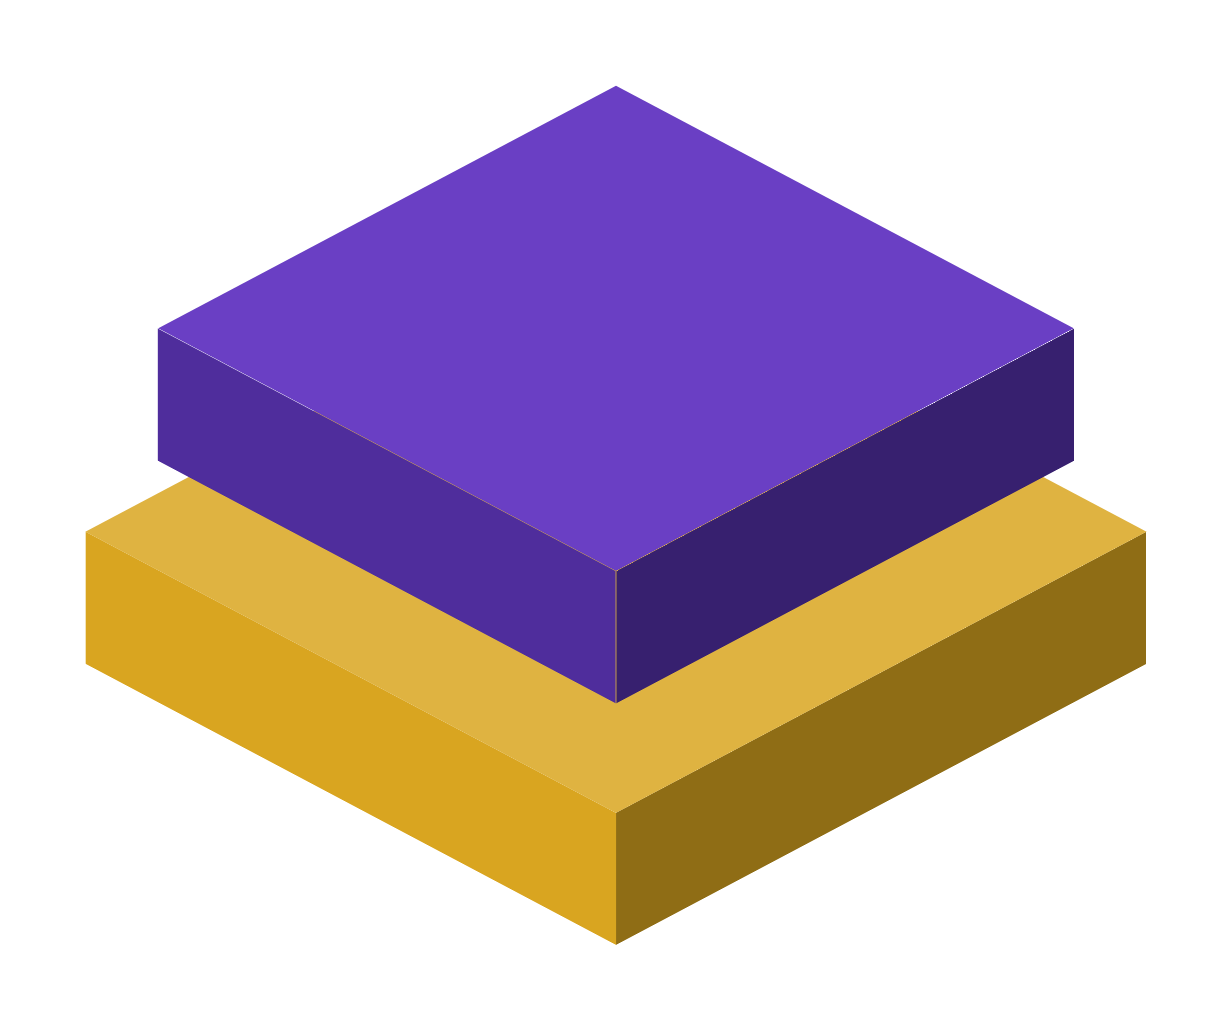
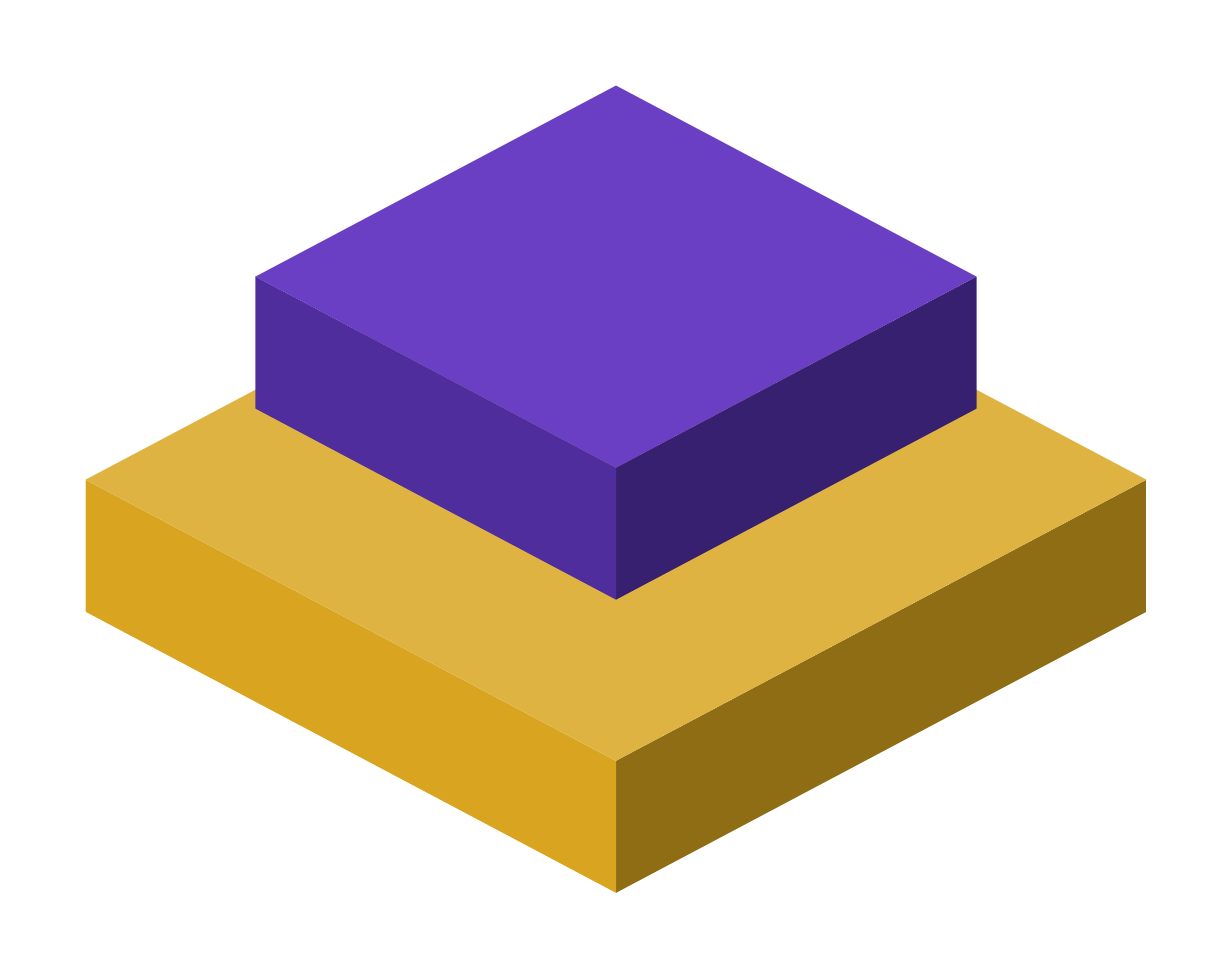
Models: Base-Superstructure's stack more pyramid-shaped (the superstructure narrower on its base); card and download updated
Claude-Session: https://claude.ai/code/session_01LgHoU9QwZ5ZurXZhgzwbWe

diff --git a/diagram/index.html b/diagram/index.html
@@ -3742,7 +3742,7 @@
     </section>
 
     <section class="structures-view" aria-label="Cultural Materialism: Three Structures">
-    <div class="model-save-row"><a class="model-save" href="../assets/downloads/cultural-materialism.png?v=3ae7eac5" download="Cultural Materialism - Three Structures.png"><svg viewBox="0 0 24 24" fill="none" stroke="currentColor" stroke-width="1.6" stroke-linecap="round" stroke-linejoin="round" aria-hidden="true"><path d="M4 15v3.5A1.5 1.5 0 0 0 5.5 20h13a1.5 1.5 0 0 0 1.5-1.5V15"/><g class="arrow"><path d="M12 4v11"/><path d="M8 11l4 4 4-4"/></g></svg><span>Download diagram</span></a></div>
+    <div class="model-save-row"><a class="model-save" href="../assets/downloads/cultural-materialism.png?v=c9e90f98" download="Cultural Materialism - Three Structures.png"><svg viewBox="0 0 24 24" fill="none" stroke="currentColor" stroke-width="1.6" stroke-linecap="round" stroke-linejoin="round" aria-hidden="true"><path d="M4 15v3.5A1.5 1.5 0 0 0 5.5 20h13a1.5 1.5 0 0 0 1.5-1.5V15"/><g class="arrow"><path d="M12 4v11"/><path d="M8 11l4 4 4-4"/></g></svg><span>Download diagram</span></a></div>
       <div class="stack-layout">
         <div class="stack-scene" aria-hidden="true"><div class="st-stack"></div></div>
         <div class="stack-side">
@@ -3757,7 +3757,7 @@
     <div class="structures-alt" role="figure" aria-label="Cultural Materialism, three structures: infrastructure, structure and superstructure"></div>
 
     <section class="marx-view" aria-label="Classical Marxism: Base-Superstructure">
-    <div class="model-save-row model-save-modes"><a class="model-save" href="../assets/downloads/base-superstructure.png?v=23b8ac33" download="Classical Marxism - Base-Superstructure.png"><svg viewBox="0 0 24 24" fill="none" stroke="currentColor" stroke-width="1.6" stroke-linecap="round" stroke-linejoin="round" aria-hidden="true"><path d="M4 15v3.5A1.5 1.5 0 0 0 5.5 20h13a1.5 1.5 0 0 0 1.5-1.5V15"/><g class="arrow"><path d="M12 4v11"/><path d="M8 11l4 4 4-4"/></g></svg><span>Download diagram</span></a><div class="model-modes" role="group" aria-label="View"><button type="button" data-mode="stack" aria-pressed="true">Stack</button><button type="button" data-mode="diagram" aria-pressed="false">Diagram</button></div></div>
+    <div class="model-save-row model-save-modes"><a class="model-save" href="../assets/downloads/base-superstructure.png?v=773b27c2" download="Classical Marxism - Base-Superstructure.png"><svg viewBox="0 0 24 24" fill="none" stroke="currentColor" stroke-width="1.6" stroke-linecap="round" stroke-linejoin="round" aria-hidden="true"><path d="M4 15v3.5A1.5 1.5 0 0 0 5.5 20h13a1.5 1.5 0 0 0 1.5-1.5V15"/><g class="arrow"><path d="M12 4v11"/><path d="M8 11l4 4 4-4"/></g></svg><span>Download diagram</span></a><div class="model-modes" role="group" aria-label="View"><button type="button" data-mode="stack" aria-pressed="true">Stack</button><button type="button" data-mode="diagram" aria-pressed="false">Diagram</button></div></div>
       <div class="stack-layout">
         <div class="stack-scene" aria-hidden="true"><div class="st-stack"></div></div>
         <div class="stack-side">
@@ -4884,7 +4884,7 @@
             detail: '<p class="st-detail-name st-detail-name-only">' + L.name + '<span class="name-sep">:</span> ' + L.aka + '</p>' +
               '<p class="st-detail-def">' + L.def + '</p>'
           };
-        }), { SIZE: 250, H: 52, TRIM: 34, STEP: 700, prelude: { n: 1, SIZE: 250, H: 44, TRIM: 30, STEP: 520 } });
+        }), { SIZE: 250, H: 52, TRIM: 80, STEP: 700, prelude: { n: 1, SIZE: 250, H: 44, TRIM: 30, STEP: 520 } });
       }
       // the two layers, one above the other, and how each acts on the other
       // Base-Superstructure: the stack, or the diagram (and the download
@@ -5516,7 +5516,7 @@
         };
         var MIDNIGHT = '#1f2f8a', GOLD = '#d9a520', VIOLET = '#6a3fc4';
         if (key === 'structures') [[150, 120, MIDNIGHT], [124, 86, GOLD], [98, 56, VIOLET]].forEach(function (s) { g += cemSlab(s[2], 150, s[1], s[0], 11); });
-        if (key === 'marx') [[150, 106, GOLD], [118, 64, VIOLET]].forEach(function (s) { g += cemSlab(s[2], 150, s[1], s[0], 15); });
+        if (key === 'marx') [[150, 106, GOLD], [102, 70, VIOLET]].forEach(function (s) { g += cemSlab(s[2], 150, s[1], s[0], 15); });
         if (key === 'complex') {
           // the stack: the ecostructure and biostructure beneath, the core
           // on them, the axis of the metastructure through them all
